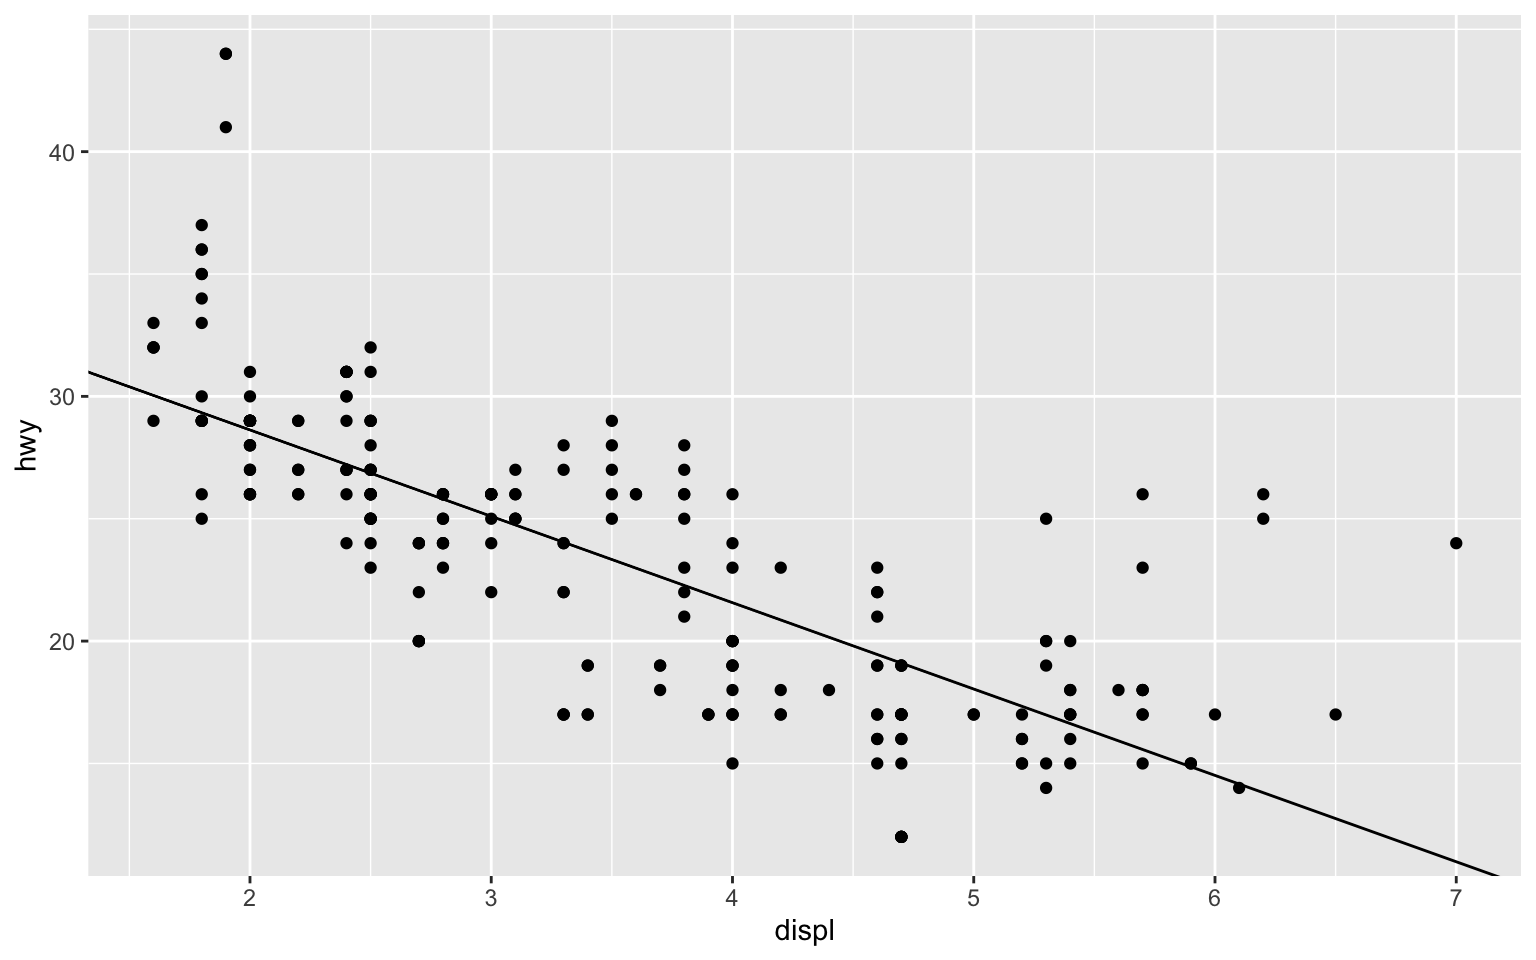
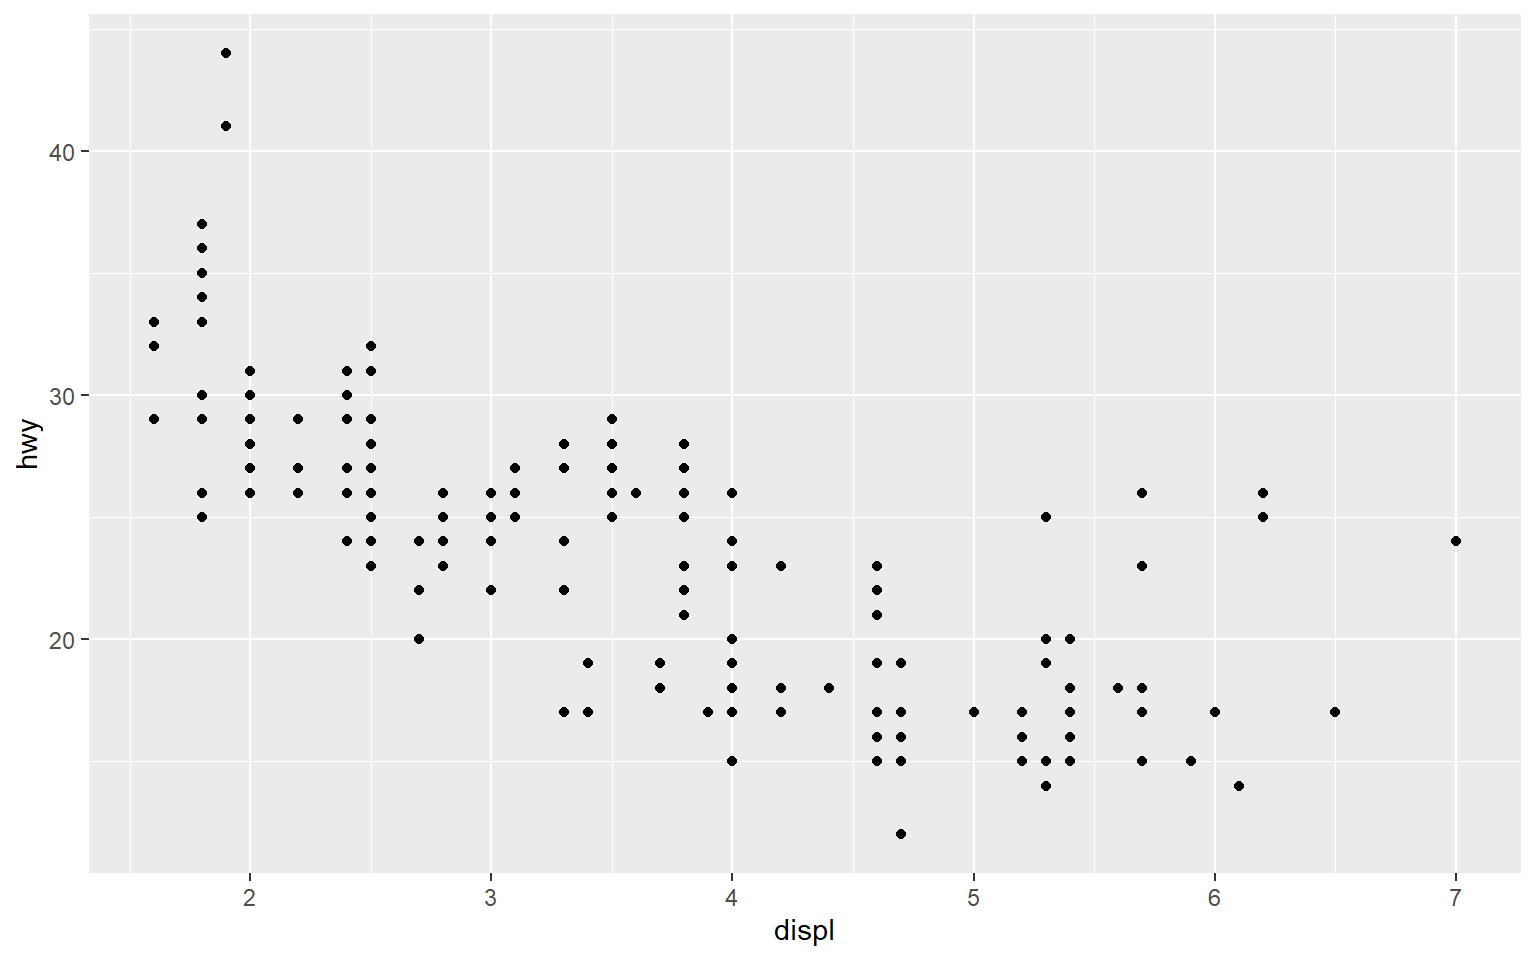
Update

diff --git a/Week3.html b/Week3.html
@@ -13,7 +13,7 @@
 
 <title>Week 3: Visualisation of Spatial Data (1) – ggplot2</title>
 
-<script src="site_libs/header-attrs-2.26/header-attrs.js"></script>
+<script src="site_libs/header-attrs-2.28/header-attrs.js"></script>
 <script src="site_libs/jquery-3.6.0/jquery-3.6.0.min.js"></script>
 <meta name="viewport" content="width=device-width, initial-scale=1" />
 <link href="site_libs/bootstrap-3.3.5/css/cosmo.min.css" rel="stylesheet" />
@@ -246,6 +246,9 @@ $(document).ready(function () {
   <a href="index.html">Home</a>
 </li>
 <li>
+  <a href="Week1.html">Week 1</a>
+</li>
+<li>
   <a href="Week2.html">Week 2</a>
 </li>
 <li>
@@ -305,6 +308,10 @@ ggplot2</h1>
 <ul>
 <li><a href="#ggplot2" id="toc-ggplot2"><span
 class="toc-section-number">1</span> ggplot2</a></li>
+<li><a href="#layers" id="toc-layers"><span
+class="toc-section-number">2</span> Layers</a></li>
+<li><a href="#others" id="toc-others"><span
+class="toc-section-number">3</span> Others</a></li>
 </ul>
 </div>
 
@@ -325,39 +332,41 @@ popular R packages.”</em></p>
 <p>It is a general framework for data visualisation, and in this class,
 we will use it to visualise spatial data and spatio-temporal data.</p>
 <ul>
-<li>Please study Chapter 3 of the book <em>R for Data Science</em> (<a
-href="https://r4ds.had.co.nz/data-visualisation.html"
-class="uri">https://r4ds.had.co.nz/data-visualisation.html</a>).
+<li>Please study Chapter 9 of the book <em>R for Data Science</em> (<a
+href="https://r4ds.hadley.nz/" class="uri">https://r4ds.hadley.nz/</a>).
 <ul>
-<li>3.1 — 3.6: required</li>
-<li>3.7 — end: optional</li>
+<li>9.1 — 9.4: required</li>
+<li>9.5 — 9.6: optional</li>
+<li>9.7: I will talk about it later</li>
 </ul></li>
 <li>~
 <ul>
-<li>ggplot, geom_point, geom_line</li>
 <li>Cheat Sheet: <a
 href="https://github.com/rstudio/cheatsheets/blob/main/data-visualization-2.1.pdf"
 class="uri">https://github.com/rstudio/cheatsheets/blob/main/data-visualization-2.1.pdf</a></li>
-<li>color, fill, alpha</li>
 </ul></li>
 </ul>
-<p>An Example</p>
+</div>
+<div id="layers" class="section level1" number="2">
+<h1><span class="header-section-number">2</span> Layers</h1>
 <pre class="r"><code>library(tidyverse)</code></pre>
-<pre><code>## ── Attaching core tidyverse packages ──────────────────────── tidyverse 2.0.0 ──
-## ✔ dplyr     1.1.4     ✔ readr     2.1.5
-## ✔ forcats   1.0.0     ✔ stringr   1.5.1
-## ✔ ggplot2   3.5.0     ✔ tibble    3.2.1
-## ✔ lubridate 1.9.3     ✔ tidyr     1.3.1
-## ✔ purrr     1.0.2     
-## ── Conflicts ────────────────────────────────────────── tidyverse_conflicts() ──
-## ✖ dplyr::filter() masks stats::filter()
-## ✖ dplyr::lag()    masks stats::lag()
-## ℹ Use the conflicted package (&lt;http://conflicted.r-lib.org/&gt;) to force all conflicts to become errors</code></pre>
+<p>An Example</p>
 <pre class="r"><code>f = lm(hwy~displ, data = mpg)
 ggplot(data = mpg) + 
+  geom_point(mapping = aes(x = displ, y = hwy))</code></pre>
+<p><img src="Week3_files/figure-html/unnamed-chunk-2-1.png" width="768" style="display: block; margin: auto;" /></p>
+<p>Add one more layer (the line)</p>
+<pre class="r"><code>ggplot(data = mpg) + 
   geom_point(mapping = aes(x = displ, y = hwy)) +
   geom_abline(slope = f$coef[2], intercept = f$coef[1])</code></pre>
-<p><img src="Week3_files/figure-html/unnamed-chunk-1-1.png" width="768" style="display: block; margin: auto;" /></p>
+<p><img src="Week3_files/figure-html/unnamed-chunk-3-1.png" width="768" style="display: block; margin: auto;" /></p>
+</div>
+<div id="others" class="section level1" number="3">
+<h1><span class="header-section-number">3</span> Others</h1>
+<p>9.2 ggplot, aes</p>
+<p>9.3 geom_point, geom_line, color, fill, alpha</p>
+<p>9.4 facet_wrap, facet_grid</p>
+<p>9.5 geom_bar</p>
 </div>
 
 
